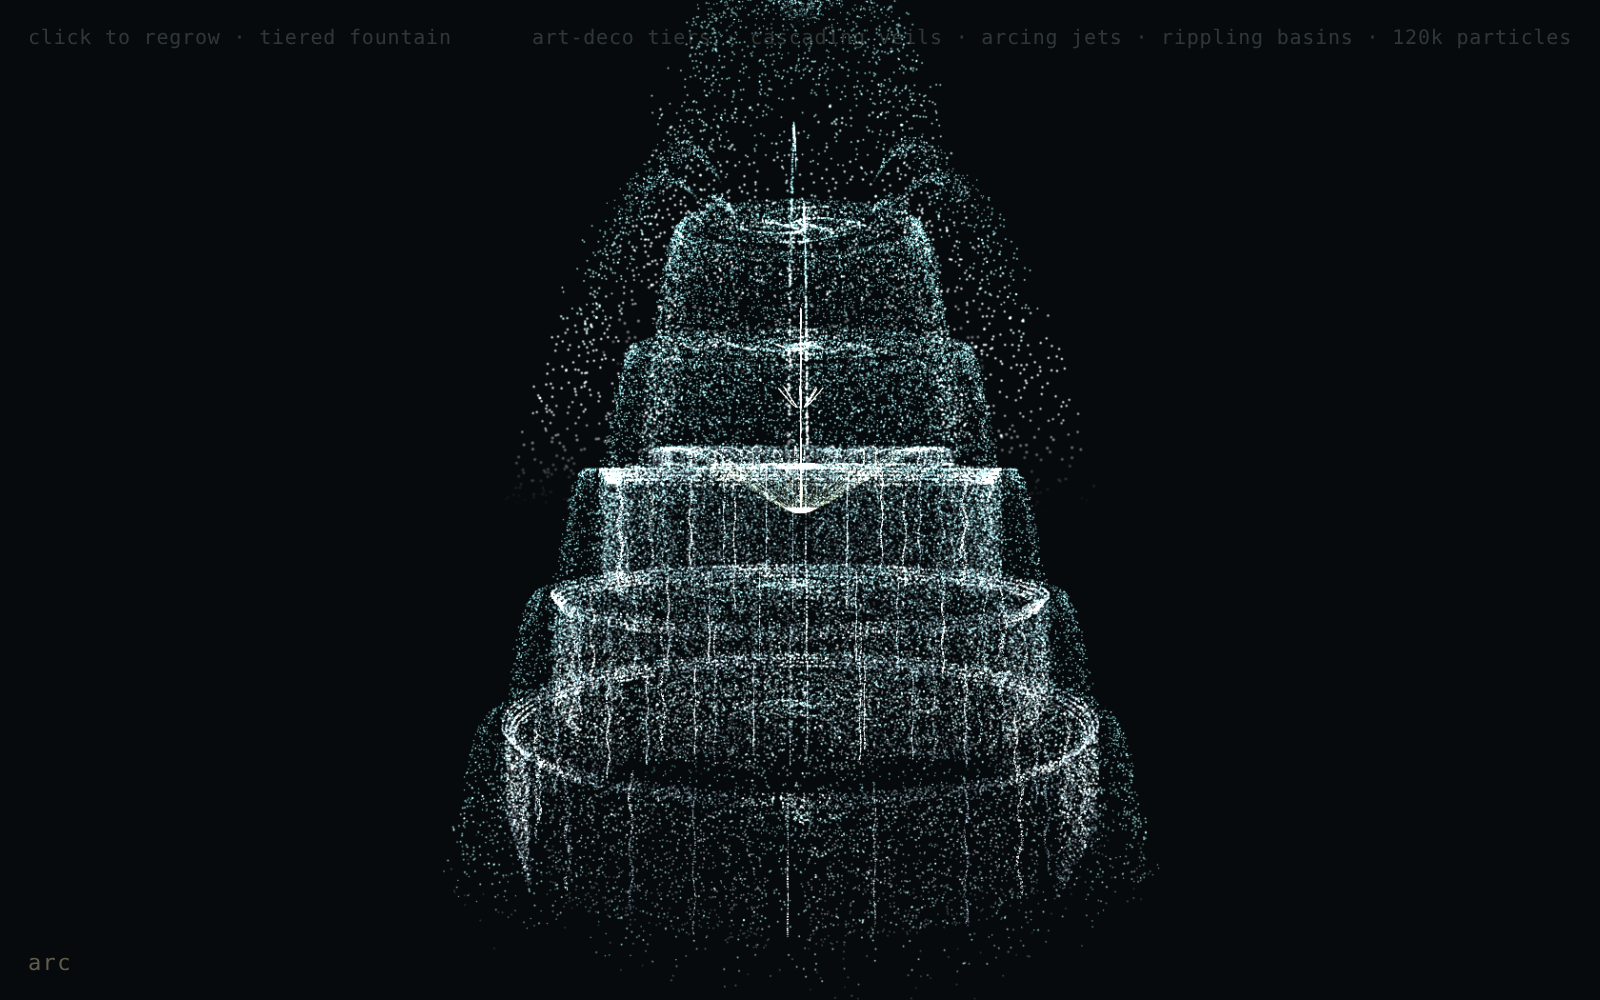
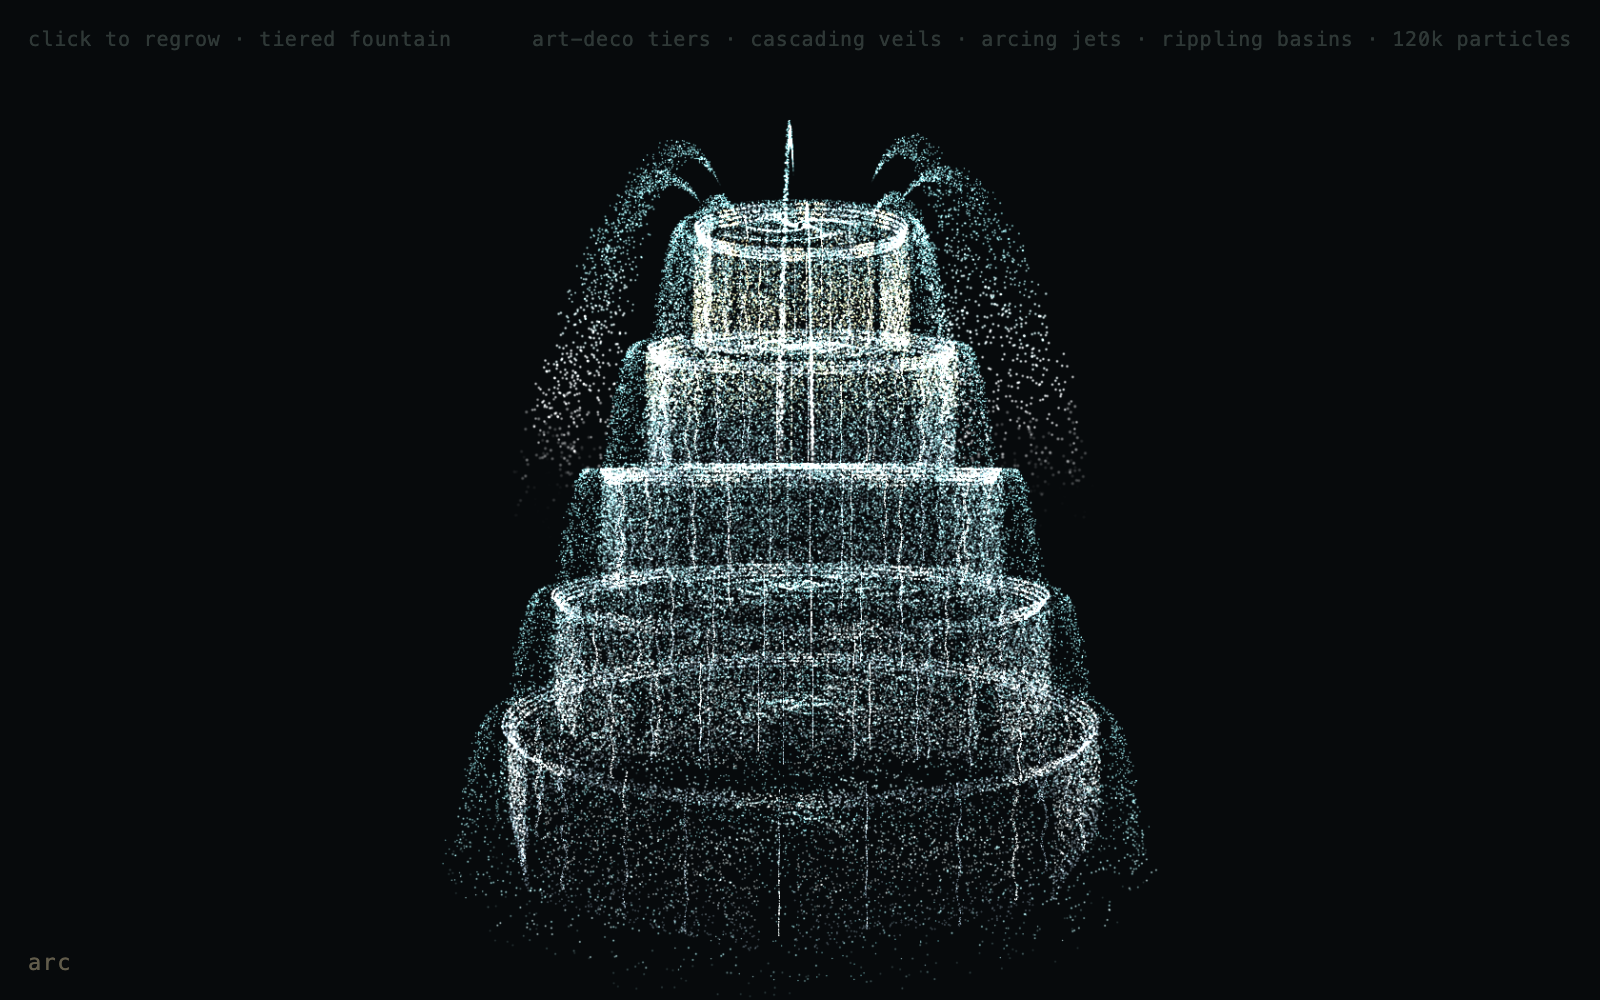
arc: remove pointed crown; seamless fountain self-loop
Per art direction (screenshot): drop the vault spire + apex finials (roles 3 & 4)
and the central crown jet so the tower top is blunt — keeps the full tiered body
and the water fountain exactly as before. Freed particle budget redistributed to
lattice/veils/basins (+ a remainder-fill so no particles default to the origin).

Self-loop: every water emitter's period now snaps to divide a global LOOP (12s),
and the water reads a wrapped clock (uLoopTime), so the fountain repeats seamlessly
every 12s. Slow camera drift keeps its own continuous clock (not part of the loop).

diff --git a/pieces/arc/index.html b/pieces/arc/index.html
@@ -32,6 +32,10 @@ function lerp(a,b,t){ return a + (b-a)*t; }
 // --- STATE ---
 let TT = { signals: null, current: null };
 const N = 120000;
+// Global fountain loop: every water emitter's period divides LOOP, and the water
+// clock (uLoopTime) wraps at LOOP, so the fountain repeats seamlessly every LOOP s.
+// (The slow camera drift keeps its own continuous clock — it's not part of the loop.)
+const LOOP = 12.0;
 let geom, points, mat;
 
 // --- RENDERER & CAMERA ---
@@ -56,6 +60,8 @@ camera.lookAt(STRUCT_CENTER);
 // --- UNIFORMS ---
 const uniforms = {
   uTime: { value: 0 },
+  uLoopTime: { value: 0 },           // water clock, wrapped to [0,LOOP) for seamless looping
+  uLoop: { value: LOOP },
   uPixel: { value: Math.min(devicePixelRatio, 1.7) },
   // biomorphic / growth signal drivers (slow)
   uGrowth:    { value: 1.0 },   // 0..1 how fully grown (animated in on boot)
@@ -73,7 +79,7 @@ const uniforms = {
 mat = new THREE.ShaderMaterial({
   uniforms, transparent: true, depthWrite: false, blending: THREE.AdditiveBlending,
   vertexShader: `
-    uniform float uTime, uPixel, uGrowth, uBreath, uVerdigris, uGold, uLattice, uOrnament, uColonnade, uWater, uGravity;
+    uniform float uTime, uLoopTime, uLoop, uPixel, uGrowth, uBreath, uVerdigris, uGold, uLattice, uOrnament, uColonnade, uWater, uGravity;
     // base structural coords baked on CPU:
     //  aStruct.xyz = resting architectural position (stone) OR emission point (water)
     //  aMeta.x = role
@@ -106,8 +112,9 @@ mat = new THREE.ShaderMaterial({
       if (role > 4.5) {
         vec3 e = aStruct;                 // emission origin
         float period = max(0.5, aFlow.w);
-        // each particle has its own phase so the stream reads as continuous
-        float t = mod(uTime + aMeta.y * period, period);
+        // each particle has its own phase so the stream reads as continuous;
+        // uLoopTime wraps at LOOP and period divides LOOP -> the stream loops seamlessly.
+        float t = mod(uLoopTime + aMeta.y * period, period);
 
         vec3 pw = e;
         float fade = 1.0;
@@ -138,13 +145,14 @@ mat = new THREE.ShaderMaterial({
         } else {
           // ---- BASIN RIPPLE: water pooling in a ledge/base basin, gently rippling ----
           float br = aFlow.w;             // basin radius
-          // ring ripples expanding outward then resetting (slow)
+          // ring ripples expanding outward then resetting — looped over LOOP
           float ang = oph * 6.2831;
-          float rr = mix(0.1, br, fract(uTime*0.06 + aMeta.y));
+          float w = 6.2831 / uLoop;                       // base loop frequency (1 cycle / LOOP)
+          float rr = mix(0.1, br, fract(uLoopTime/uLoop + aMeta.y));
           pw = e + vec3(cos(ang)*rr, 0.0, sin(ang)*rr);
-          // surface bob
-          pw.y += 0.06 * sin(uTime*0.5 + rr*5.0 + ang*3.0);
-          foam = 0.25 + 0.25*sin(uTime*0.7 + ang*4.0);
+          // surface bob + foam shimmer at integer multiples of the loop frequency (seamless)
+          pw.y += 0.06 * sin(w*uLoopTime + rr*5.0 + ang*3.0);
+          foam = 0.25 + 0.25*sin(2.0*w*uLoopTime + ang*4.0);
           fade = 0.85;
         }
 
@@ -310,16 +318,16 @@ function build(seedVal){
     return baseR * (1.0 - tier*0.16);
   }
 
-  // Budget split: ~74% stone architecture, ~26% water
-  const N_COL  = Math.floor(N*0.17); // colonnade shafts
-  const N_LAT  = Math.floor(N*0.28); // lattice screens (the bulk of the silhouette body)
-  const N_COR  = Math.floor(N*0.11); // cornices / setback ledges
-  const N_VLT  = Math.floor(N*0.09); // vault ribs
-  const N_FIN  = Math.floor(N*0.05); // finials / crown
-  const N_VEIL = Math.floor(N*0.18); // cascading water veils over tier weirs
-  const N_JET  = Math.floor(N*0.05); // arcing jets from crown + corners
-  const N_BAS  = Math.floor(N*0.06); // basin ripples at ledges + base
-  // remainder -> finials/crown overflow
+  // Budget split: stone tower body (NO crown) + water fountain.
+  // Crown spire + apex finials removed per art direction — the tower top is blunt,
+  // capped by its top cornice ledge. Freed budget → lattice/veils/basins so density holds.
+  const N_COL  = Math.floor(N*0.18); // colonnade shafts
+  const N_LAT  = Math.floor(N*0.34); // lattice screens (the bulk of the silhouette body)
+  const N_COR  = Math.floor(N*0.13); // cornices / setback ledges (incl. top-tier cap)
+  const N_VEIL = Math.floor(N*0.22); // cascading water veils over tier weirs
+  const N_JET  = Math.floor(N*0.05); // arcing jets from top-tier corners
+  const N_BAS  = Math.floor(N*0.08); // basin ripples at ledges + base
+  // any remainder -> extra lattice (filled at end so no unused origin particles)
 
   // ---- 1. COLONNADE: vertical column shafts at every bay edge, each tier ----
   for (let k=0; k<N_COL; k++){
@@ -386,53 +394,12 @@ function build(seedVal){
     put(x, yy, z, 2.0, hP, (a/(Math.PI*2)*8.0)%1, rng());
   }
 
-  // ---- 4. RIBBED VAULT CROWN: ribs arcing up & in from the top tier ----
-  const crownBase = TIERS*tierH; // ~15
-  for (let k=0; k<N_VLT; k++){
-    const ribSide = Math.floor(rng()*SIDES);
-    const a = (ribSide/SIDES)*Math.PI*2;
-    const t = rng();                       // 0 base of rib .. 1 apex
-    const r0 = radiusAt(TIERS-1)*0.86;
-    // rib arcs inward and up to a shared apex (vaulting)
-    const rr = r0*(1.0 - t) + 0.1;
-    const yy = crownBase + t*3.4;          // rises ~3.4 above the body
-    // gentle ogee curve
-    const arc = Math.sin(t*Math.PI)*0.6;
-    const rArc = rr + arc*0.0;
-    const x = Math.cos(a)*rArc, z = Math.sin(a)*rArc;
-    const hP = Math.min(1.0, yy/(totalH+3.4));
-    put(x, yy, z, 3.0, hP, t, rng());
-  }
-
-  // ---- 5. FINIALS / GILDED CROWN: clustered points at the apex + tier corners ----
-  const finialEnd = idx + N_FIN;
-  while (idx < finialEnd && idx < N){
-    const r = rng();
-    if (r < 0.6){
-      // central apex finial
-      const a = rng()*Math.PI*2;
-      const t = Math.pow(rng(),0.6);
-      const yy = crownBase + 3.2 + t*1.8;
-      const rr = (1.0-t)*0.9*(0.4+0.6*rng());
-      const x=Math.cos(a)*rr, z=Math.sin(a)*rr;
-      const hP = Math.min(1.0,(yy)/(totalH+5.0));
-      put(x,yy,z,4.0,hP, rng(), rng());
-    } else {
-      // small corner finials at top-tier column tops
-      const side = Math.floor(rng()*SIDES);
-      const a = (side/SIDES)*Math.PI*2;
-      const rr = radiusAt(TIERS-1)*0.98;
-      const yy = crownBase + 0.1 + rng()*0.7;
-      const x=Math.cos(a)*rr, z=Math.sin(a)*rr;
-      const hP = Math.min(1.0, yy/(totalH+5.0));
-      put(x,yy,z,4.0,hP, rng(), rng());
-    }
-  }
+  // ---- (crown removed) ---- top of the tower body; used by water emitters below.
+  const crownBase = TIERS*tierH; // ~15 — blunt top of the tiered tower (no spire)
 
   // =====================================================================
   //  WATER GENERATOR — cascades, jets, basins tied to the architecture.
   // =====================================================================
-  const apexY = crownBase + 3.2 + 1.8;        // finial apex height (~20)
 
   // ---- 6. CASCADE VEILS: sheets spilling over the lip of each setback tier ----
   // Each tier's top ledge is a weir; water sheets over it and falls to the tier below.
@@ -449,32 +416,25 @@ function build(seedVal){
     // sheet cascades down 1.5-2.5 tiers so the veils are long and clearly read as water
     const dropTiers = 1.5 + rng()*1.0;
     const dropH = Math.min(lipY, dropTiers*tierH);
-    const period = Math.sqrt(2.0*Math.max(1.0, dropH)/9.2) * (0.95+0.15*rng());
+    let period = Math.sqrt(2.0*Math.max(1.0, dropH)/9.2) * (0.95+0.15*rng());
+    period = LOOP / Math.max(1, Math.round(LOOP/period));   // snap to divide LOOP -> seamless
     const phase = rng();
     const lateral = rng();                       // shimmer phase
     putW(ox, lipY, oz, 5.0, phase, lateral, vx, vy, vz, period);
   }
 
-  // ---- 7. ARCING JETS: slow parabolas from the crown apex + top-tier corners ----
+  // ---- 7. ARCING JETS: slow parabolas from the top-tier corners, arcing outward ----
+  // (central crown jet removed with the spire — jets now rise only from the tower edge)
   for (let k=0; k<N_JET; k++){
-    let ox, oy, oz, a, speed, up;
-    if (rng() < 0.5){
-      // central crown jet: launches up & gently out, big slow arc
-      a = rng()*Math.PI*2;
-      const rr = 0.4*rng();
-      ox = Math.cos(a)*rr; oz = Math.sin(a)*rr; oy = apexY;
-      speed = 1.6 + rng()*0.8; up = 4.2 + rng()*1.2;
-    } else {
-      // corner jets at top-tier finials, arcing outward over the edge
-      const side = Math.floor(rng()*SIDES);
-      a = (side/SIDES)*Math.PI*2;
-      const rr = radiusAt(TIERS-1)*0.98;
-      ox = Math.cos(a)*rr; oz = Math.sin(a)*rr; oy = crownBase + 0.6;
-      speed = 2.0 + rng()*0.9; up = 3.0 + rng()*1.0;
-    }
+    const side = Math.floor(rng()*SIDES);
+    const a = (side/SIDES)*Math.PI*2;
+    const rr = radiusAt(TIERS-1)*0.98;
+    const ox = Math.cos(a)*rr, oz = Math.sin(a)*rr, oy = crownBase + 0.6;
+    const speed = 2.0 + rng()*0.9, up = 3.0 + rng()*1.0;
     const vx = Math.cos(a)*speed, vz = Math.sin(a)*speed, vy = up;
     // time aloft until it falls back well below launch (long slow arc)
-    const period = (vy + Math.sqrt(vy*vy + 2.0*9.2*Math.max(2.0, oy*0.5)))/9.2;
+    let period = (vy + Math.sqrt(vy*vy + 2.0*9.2*Math.max(2.0, oy*0.5)))/9.2;
+    period = LOOP / Math.max(1, Math.round(LOOP/period));   // snap to divide LOOP -> seamless
     putW(ox, oy, oz, 6.0, rng(), rng(), vx, vy, vz, period);
   }
 
@@ -493,6 +453,28 @@ function build(seedVal){
     const phase = rng();
     putW(0.0, basinY, 0.0, 7.0, phase, ang, 0,0,0, basinR);
     // store true center via aStruct already (0,basinY,0); ripple expands from center
+  }
+
+  // ---- FILL REMAINDER: top up any unused budget with extra lattice threads so no
+  //      particle defaults to the origin (role 0 at 0,0,0) and shows as a clump. ----
+  while (idx < N){
+    const tier = Math.min(TIERS-1, Math.floor(rng()*TIERS));
+    const y0 = tier*tierH;
+    const r  = radiusAt(tier);
+    const side = Math.floor(rng()*SIDES);
+    const faceA = (side+0.5)/SIDES * Math.PI*2;
+    const u = rng()-0.5, v = rng();
+    const fx = u*Math.PI*8.0, fy = v*Math.PI*8.0;
+    const star = Math.abs(Math.sin(fx)*Math.cos(fy)) + Math.abs(Math.cos(fx)*Math.sin(fy));
+    const interlace = Math.abs(Math.sin(fx+fy));
+    const thread = Math.max(star, interlace*0.9);
+    if (thread < 0.62) continue;                 // keep only lattice threads
+    const faceWidth = r * Math.sin(Math.PI/SIDES) * 1.9;
+    const px = u*faceWidth, py = y0 + v*tierH*0.96 + tierH*0.02;
+    const ca=Math.cos(faceA), sa=Math.sin(faceA);
+    const surfR = r * (0.99 + 0.02*(thread-0.7));
+    const wx = ca*surfR - sa*px, wz = sa*surfR + ca*px;
+    put(wx, py, wz, 1.0, py/totalH, ((thread)+v*0.3)%1, rng());
   }
 
   return { aPos, aStr, aMeta, aFlow };
@@ -546,6 +528,7 @@ function loop(){
   const dt = Math.min(0.05, (now - __lastT)/1000);
   __lastT = now;
   uniforms.uTime.value = tSec;
+  uniforms.uLoopTime.value = tSec % LOOP;   // wrapped clock → fountain repeats every LOOP s
 
   // Growth: structure grows in over ~5s on load / regen, then holds (no looping churn).
   const g = clamp01((now - __growthStart)/1000 / 5.0);
